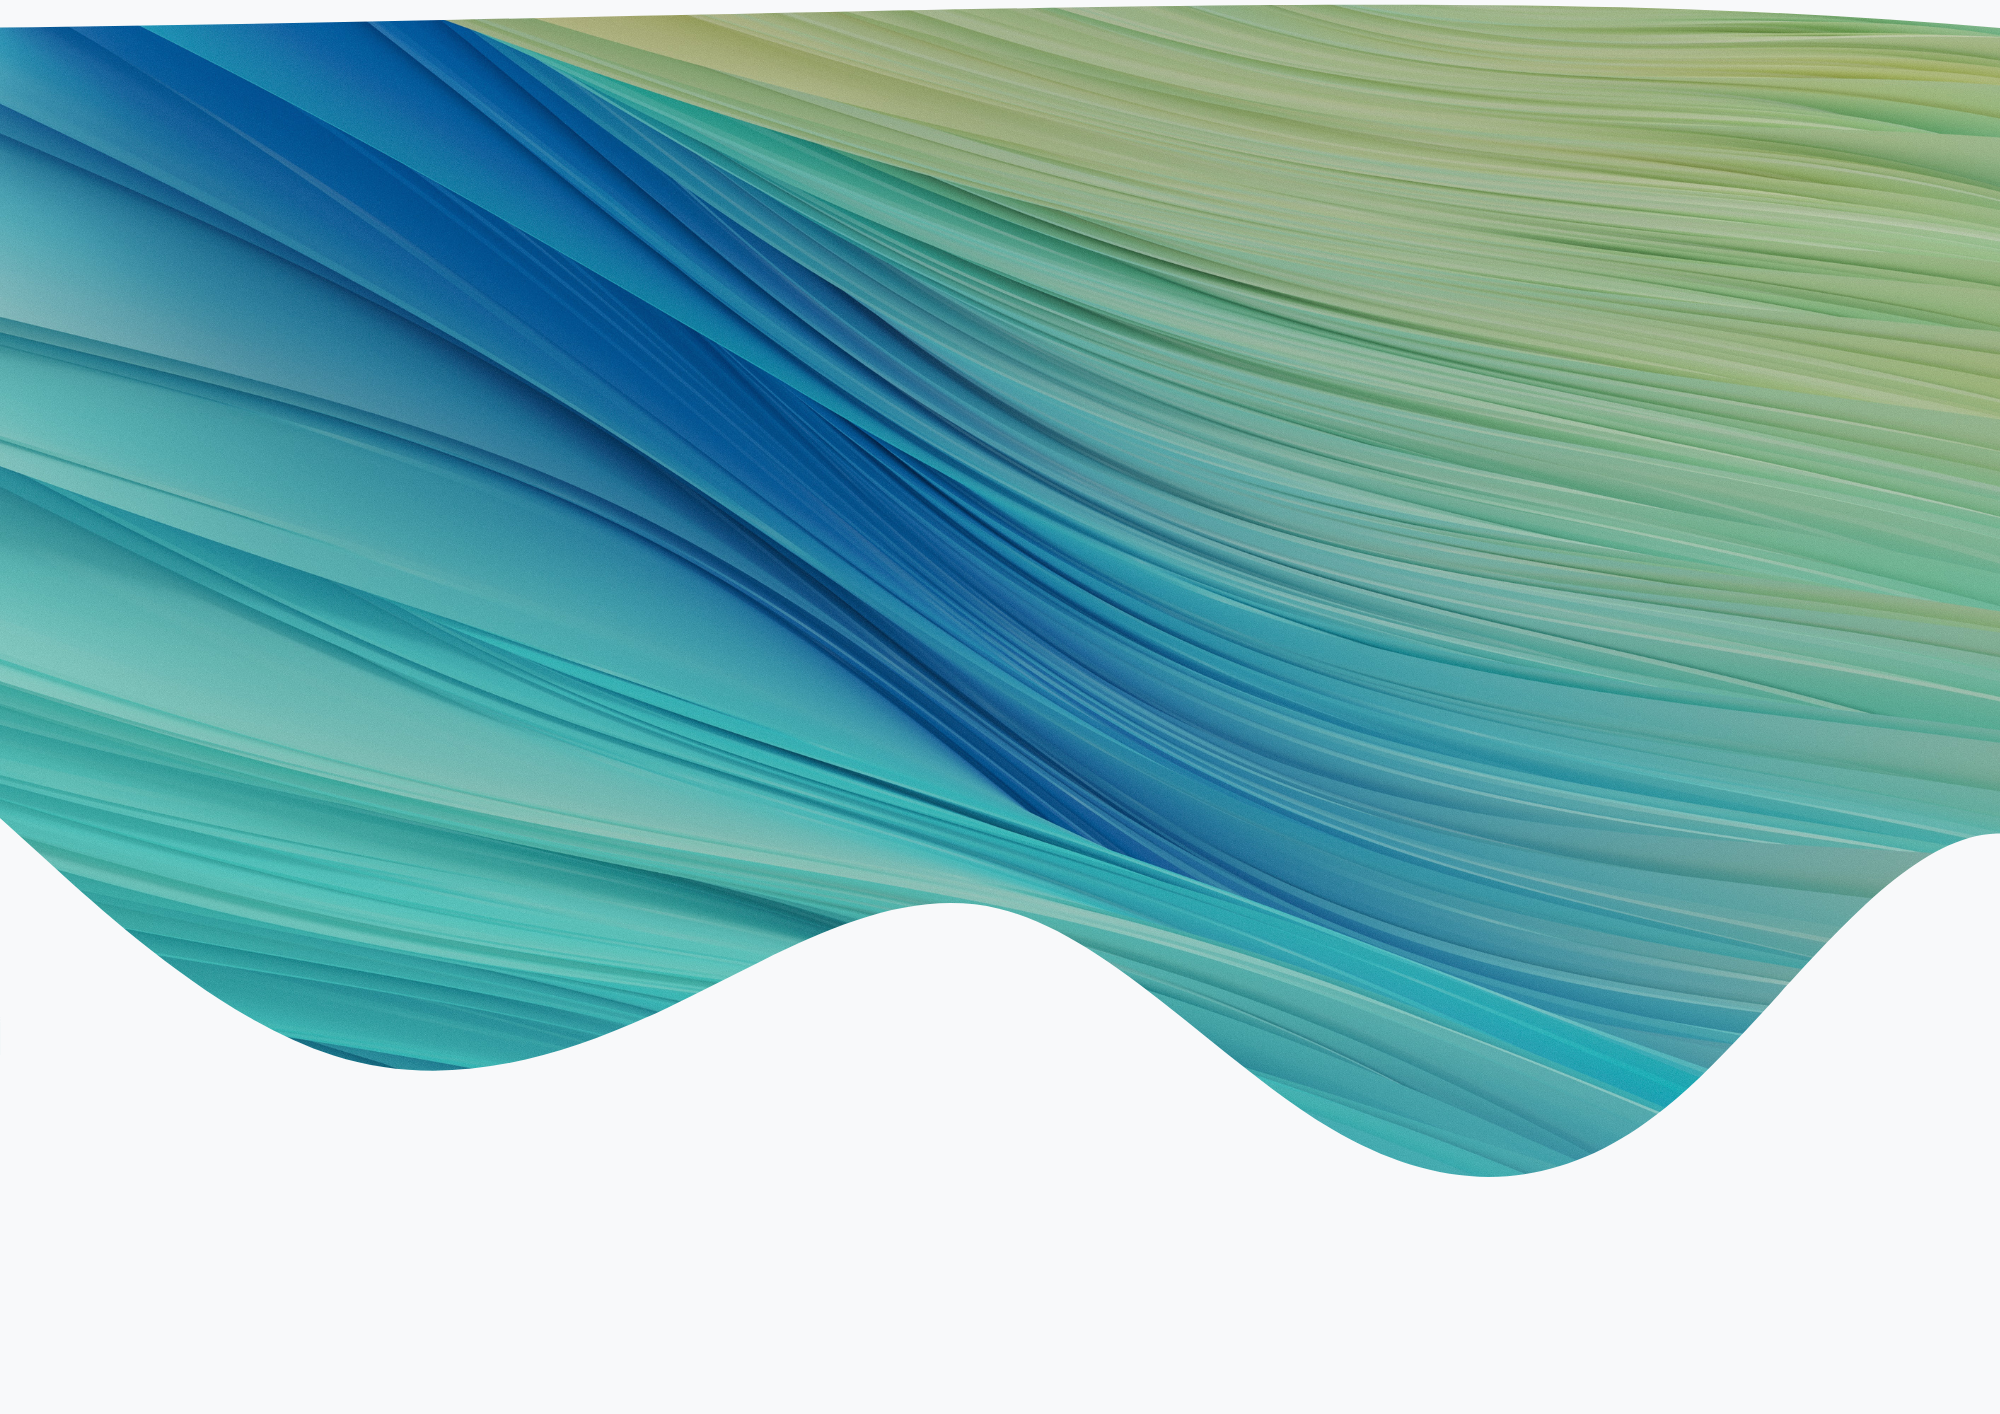
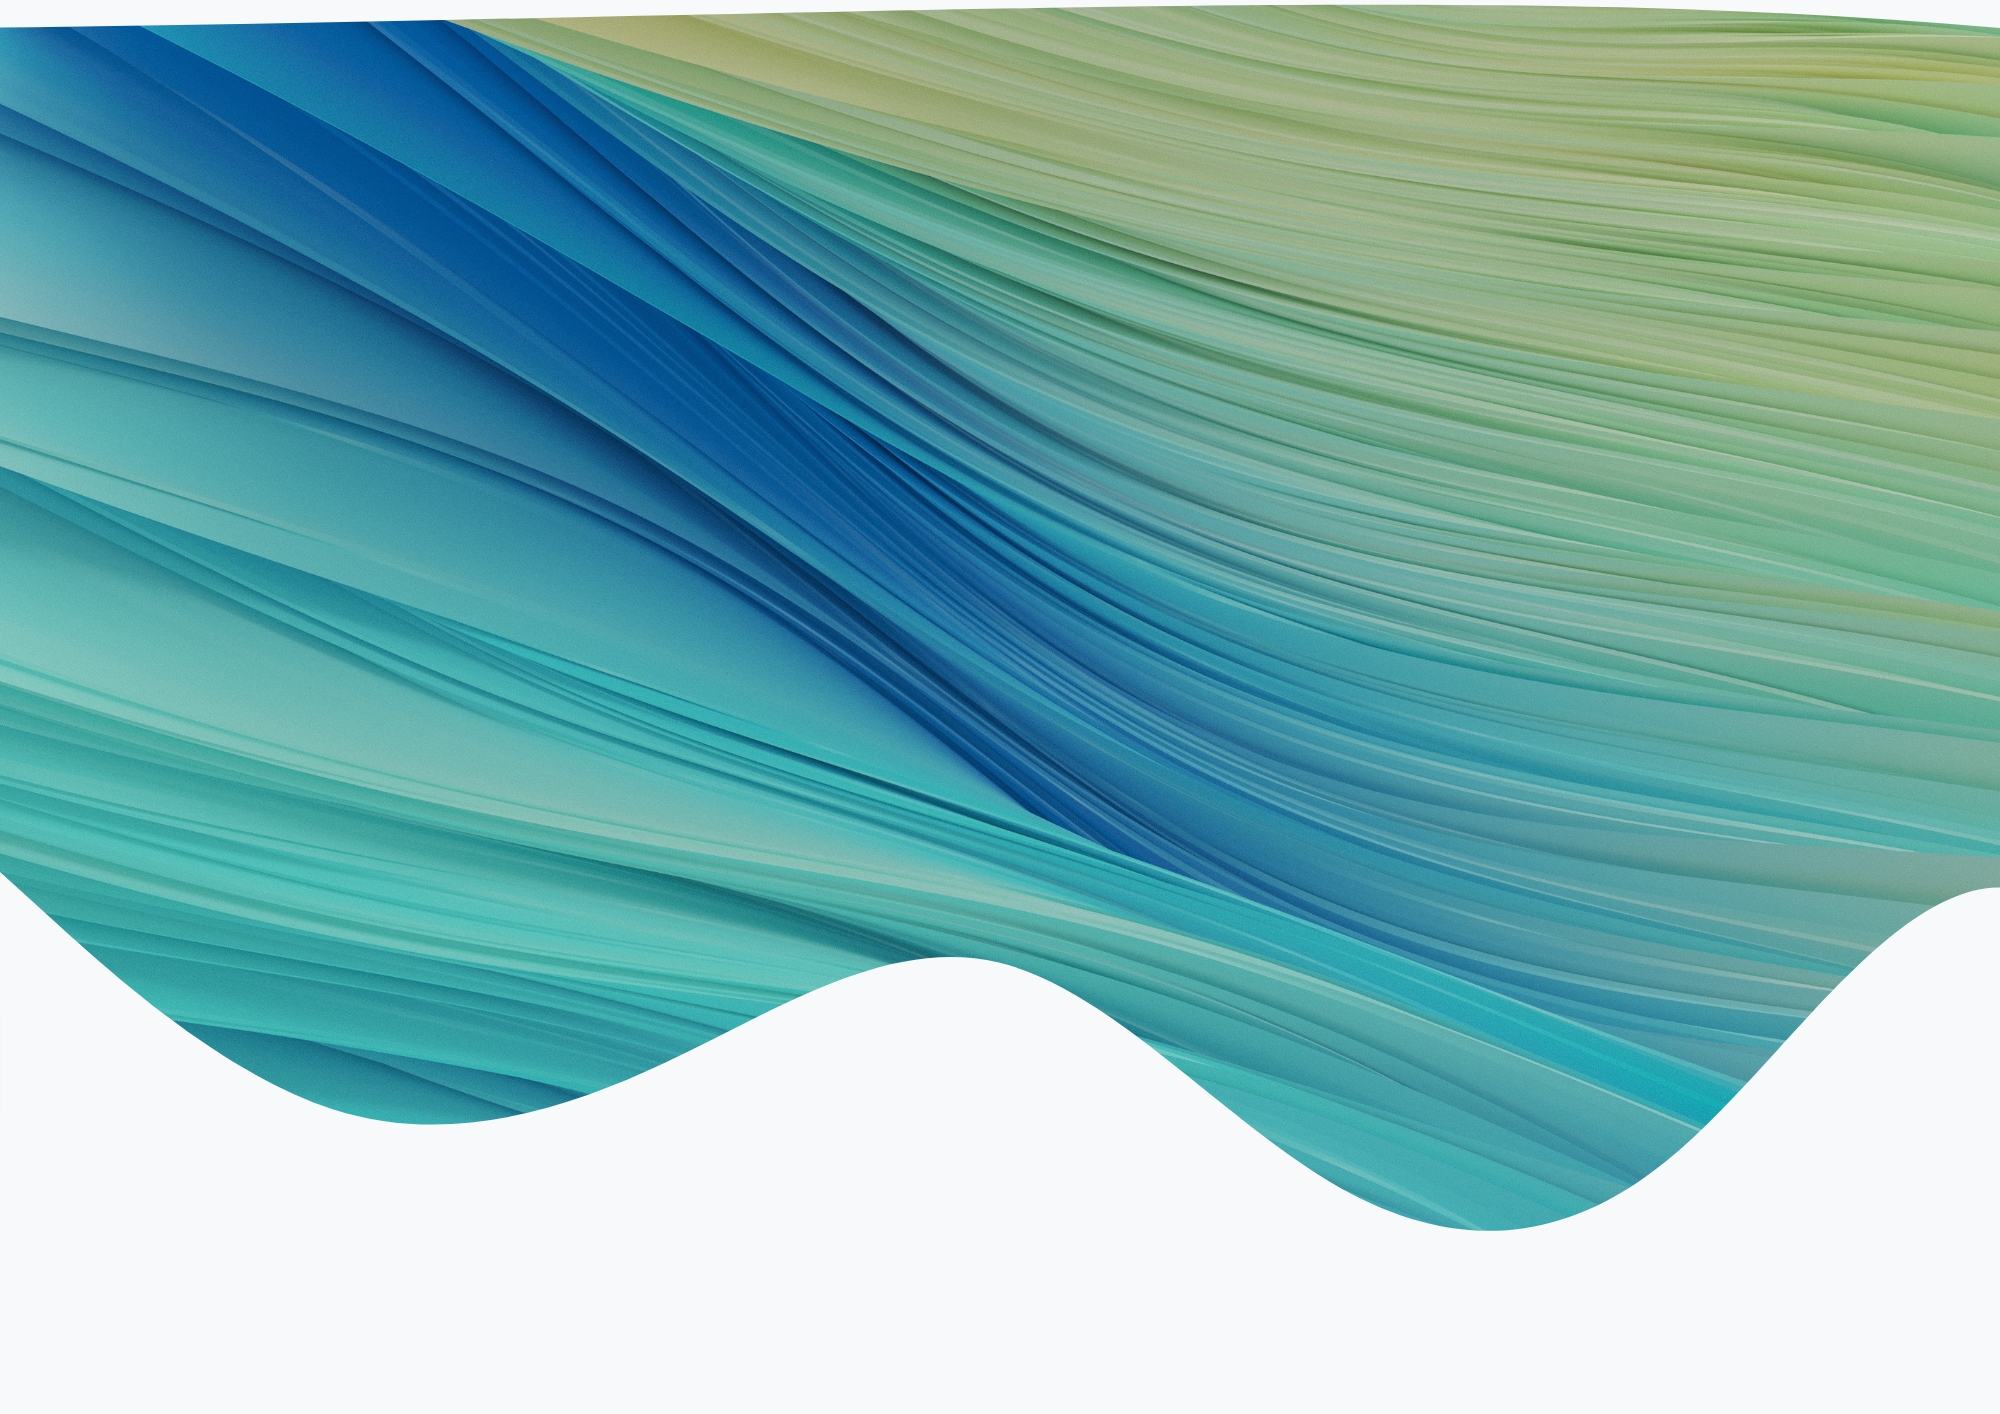
lp recovered

Changed region(s): [[0.0, 0.5912, 1.0, 0.8713]]

diff --git a/app/assets/stylesheets/pages/_landing_page.scss b/app/assets/stylesheets/pages/_landing_page.scss
@@ -1,7 +1,7 @@
 .lp-hero-banner {
   background-image: url("background-image-lp.png");
   background-size: cover;
-  height: 850px;
+  height:900px;
   padding: 200px 0;
 }
 
@@ -35,7 +35,7 @@
   border: #045651;
   font-weight: bold;
   display: inline-block;
-  letter-spacing: 2px;
+  letter-spacing: 1px;
 
 }
 
